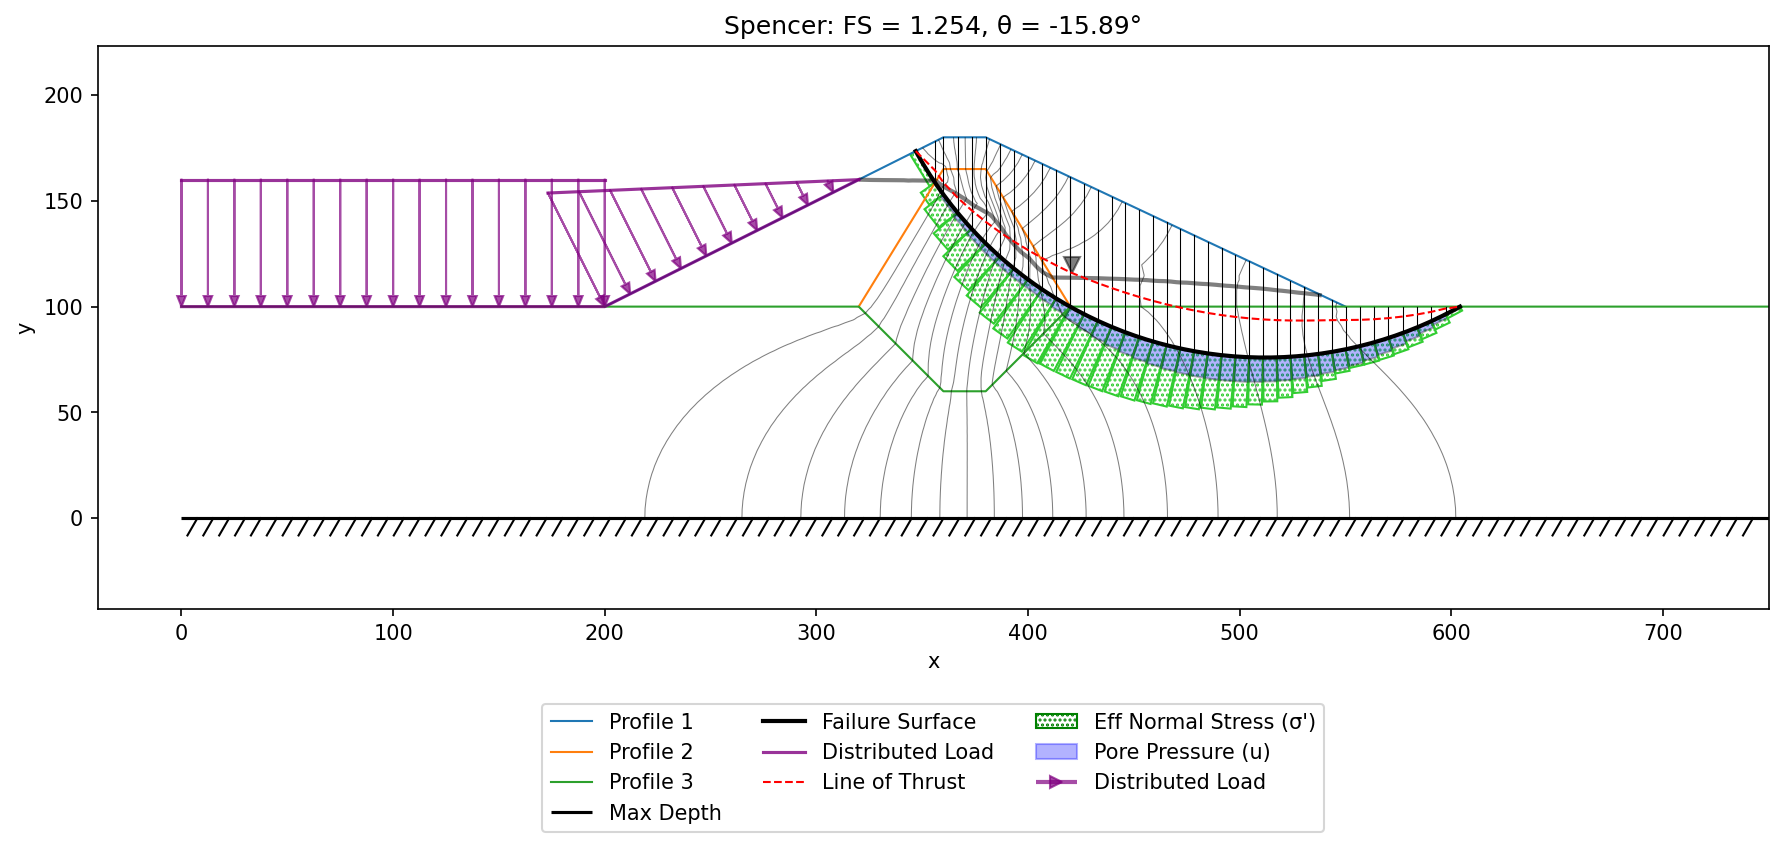
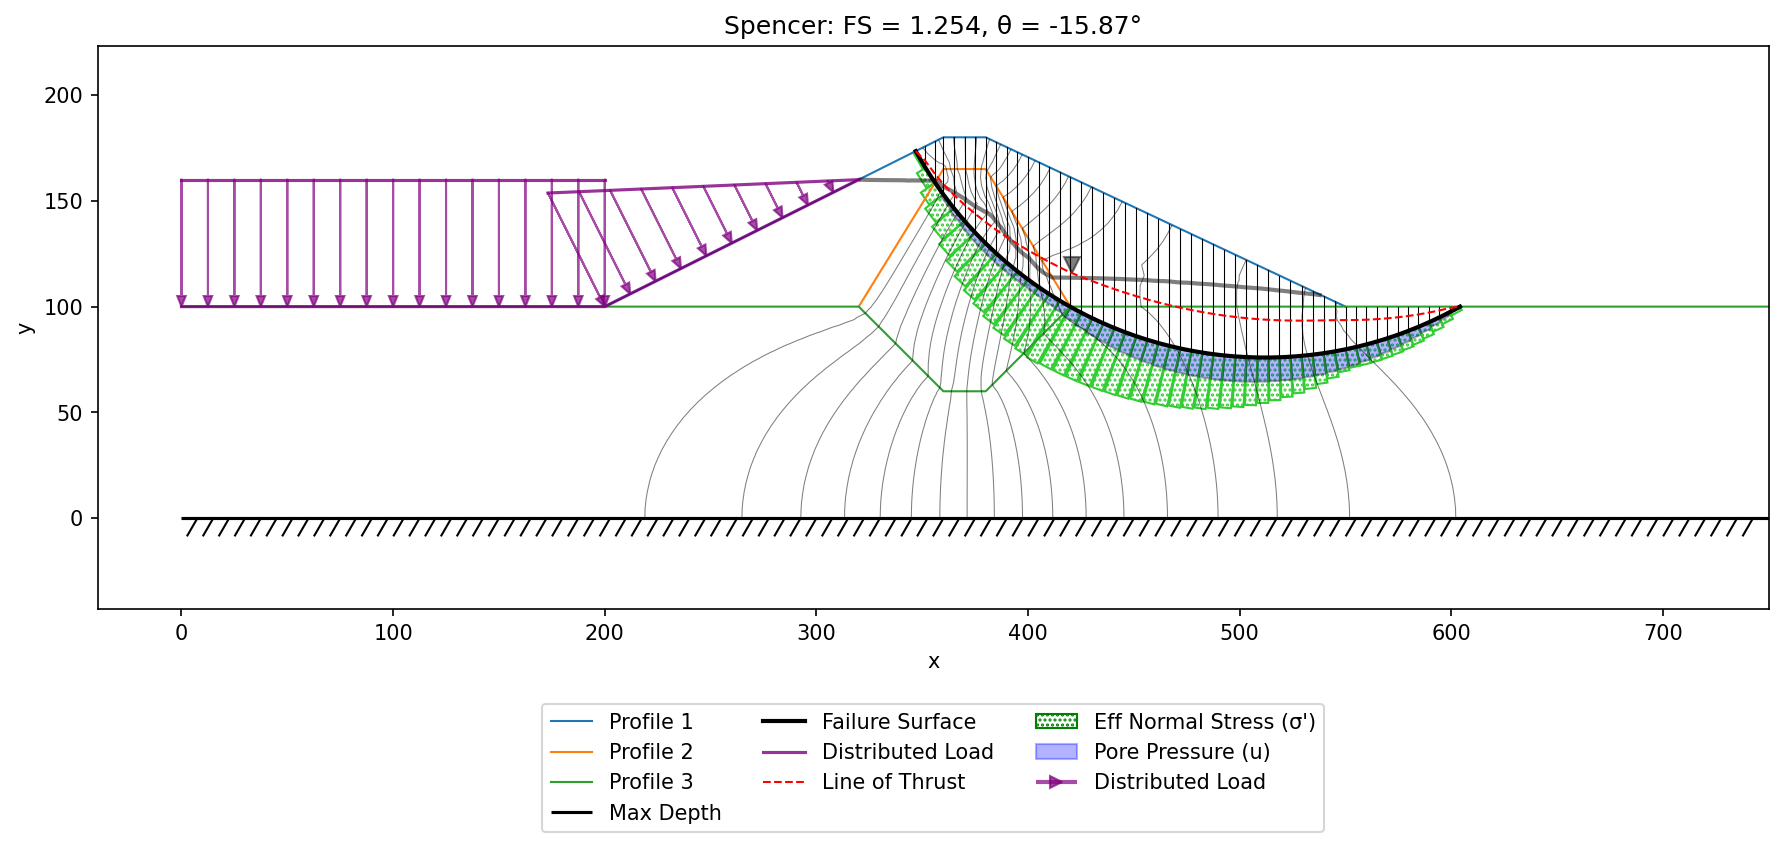
docs(seep): Johnson LEM uses 50 slices (benchmark standard)
Regenerate the Spencer critical-circle figure at num_slices=50 and pin the
annotation to match. FS is unchanged at 1.25 (slice count moves it <0.001 here);
the 1.26->1.25 shift from the prior version was due entirely to regenerating the
seepage field with the fixed solver, not the slice count.

Changed region(s): [[0.4936, 0.1842, 0.8329, 0.4911]]

diff --git a/docs/seep/seep_slope.md b/docs/seep/seep_slope.md
@@ -319,7 +319,7 @@ Note the mesh display in the background. This indicates that the mesh file and t
 
 ![seep_slope_lem_results.png](images/seep_slope_lem_results.png){width=1200px}
 
-<!-- test: file=files/xslope_johnson_res.xlsx, type=circular_search, method=spencer, expected_fs=1.25, tolerance=0.02 -->
+<!-- test: file=files/xslope_johnson_res.xlsx, type=circular_search, method=spencer, expected_fs=1.25, num_slices=50, tolerance=0.02 -->
 
 Finally, the same Excel file and the corresponding mesh and seepage solution files are imported again for a FEM slope stability analysis. The pore pressures from the seepage solution are interpolated to every Gauss point and enter the analysis through the effective-stress formulation (see [FEM Overview](../fem/overview.md)), so the FEM uses exactly the same pore pressure field as the LEM analysis, and the reservoir water above the submerged upstream face is applied as a consistent boundary pressure. The shear strength reduction method (SSRM) is run with the default non-convergence criterion. The result is **FS = 1.29**, and the plots below show the solution at the computed factor of safety:
 
